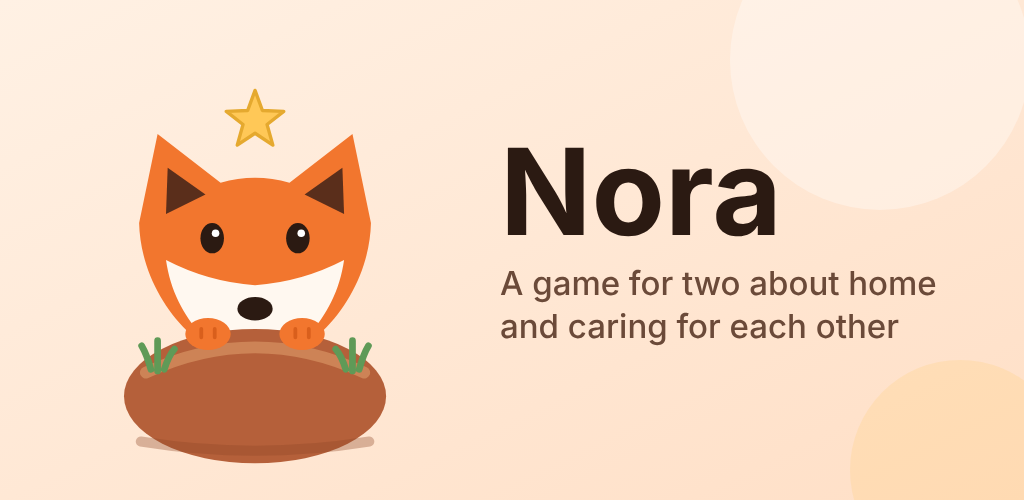
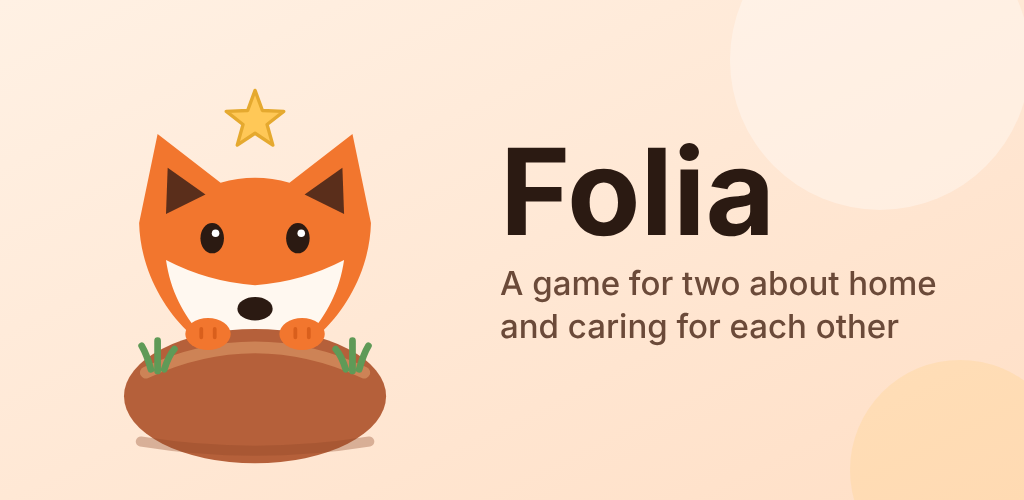
Rename the app to Folia (identifier com.andrey6570.nora stays)
Claude-Session: https://claude.ai/code/session_0174n2Gw8vqag9KVG39bDG5i

Changed region(s): [[0.5, 0.27, 0.7812, 0.48]]

diff --git a/src/help.js b/src/help.js
@@ -3,7 +3,7 @@ export const HELP = {
   ru: {
     guide: [
       ["1. Создайте пару", "Войдите через Google, укажите имя и нажмите «Создать пару». На экране появится код из шести символов."],
-      ["2. Пригласите партнёра", "Нажмите «Отправить» и перешлите код в мессенджере. Партнёр устанавливает Нору, входит через свой Google, выбирает «У меня есть код» и вводит его."],
+      ["2. Пригласите партнёра", "Нажмите «Отправить» и перешлите код в мессенджере. Партнёр устанавливает Folia, входит через свой Google, выбирает «У меня есть код» и вводит его."],
       ["3. Добавьте дела", "Кнопка ＋ создаёт своё дело: название, время, сложность и повтор. «Готовые наборы» — это списки популярных дел: отметьте подходящие и нажмите «Добавить»."],
       ["4. Отмечайте этапы", "У простого дела один этап — «Сделать». У дел, которые сначала нужно заметить и организовать (запись к врачу, покупки, счета), есть ещё «Заметить» и «Спланировать». Каждый этап за день или неделю отмечает только один из вас."],
       ["5. Делайте вместе", "Если сделали дело вдвоём, нажмите «Вдвоём»: звёзды удваиваются и все идут в общую копилку."],
@@ -20,7 +20,7 @@ export const HELP = {
       ["Как изменить или удалить дело?", "Нажмите ⋯ у дела. Там можно изменить его или удалить."],
       ["Что значит «1 звезда = N минут»?", "Это цена звезды в «Настройках → Экономика звёзд». Меняет цену будущих отметок, заработанное не пересчитывается."],
       ["Партнёр не может присоединиться", "Проверьте код: он из шести символов, латиница и цифры. В паре может быть только двое. Если код утерян, его видно во вкладке «Дела», пока партнёр не присоединился."],
-      ["Не приходят уведомления", "Откройте «Настройки → Уведомления» в приложении: там написано, что не так. Нажмите «Включить уведомления» и разрешите их в окне телефона. Если разрешение отклонено, включите его в настройках телефона (Приложения → Нора → Уведомления) и вернитесь в приложение. Кнопка «Отправить тестовое уведомление» проверяет всю цепочку, а строка «Последняя отправка сервера» показывает, что ответила Google. Если тест приходит, а остальное нет, отключите для «Нора» экономию заряда. Уведомления работают только в приложении для Android и отключаются, когда вы выходите из аккаунта или пары."],
+      ["Не приходят уведомления", "Откройте «Настройки → Уведомления» в приложении: там написано, что не так. Нажмите «Включить уведомления» и разрешите их в окне телефона. Если разрешение отклонено, включите его в настройках телефона (Приложения → Folia → Уведомления) и вернитесь в приложение. Кнопка «Отправить тестовое уведомление» проверяет всю цепочку, а строка «Последняя отправка сервера» показывает, что ответила Google. Если тест приходит, а остальное нет, отключите для «Folia» экономию заряда. Уведомления работают только в приложении для Android и отключаются, когда вы выходите из аккаунта или пары."],
       ["Почему нельзя потратить копилку одному?", "Копилка общая, поэтому траты из неё делаются вдвоём: один предлагает, второй соглашается. Личные награды вы покупаете сами из своих звёзд."],
       ["Видит ли партнёр мои ответы в «Карте желаний»?", "Нет. Ваши ответы приватны. Партнёр видит только пункты, где вы оба сказали «да» или были открыты. Ваше «нет» не видит никто, и ответ нельзя изменить, чтобы его нельзя было подбирать."],
       ["Питомец расстроится, если мы пропустим день?", "Нет. Питомец не болеет, не голодает и не обижается. Он просто дремлет и ждёт. Страдает только «огонёк» пары: серия обнуляется, но заморозка (даётся за каждые 7 дней подряд) спасает один пропущенный день."],
@@ -32,7 +32,7 @@ export const HELP = {
   en: {
     guide: [
       ["1. Create a pair", "Sign in with Google, enter your name and tap “Create a pair”. A six-character code appears on the screen."],
-      ["2. Invite your partner", "Tap “Send” and share the code in a messenger. Your partner installs Nora, signs in with their own Google account, chooses “I have a code” and enters it."],
+      ["2. Invite your partner", "Tap “Send” and share the code in a messenger. Your partner installs Folia, signs in with their own Google account, chooses “I have a code” and enters it."],
       ["3. Add chores", "The ＋ button creates your own chore: title, time, difficulty and repeat. “Ready-made sets” are lists of popular chores: tick the ones that fit and tap “Add”."],
       ["4. Mark the steps", "A simple chore has one step, “Do”. Chores someone has to spot and organise first (a doctor's appointment, shopping, bills) also have “Notice” and “Plan”. Each step in a day or week is marked by only one of you."],
       ["5. Do it together", "If you did a chore together, tap “Together”: the stars are doubled and all go into the shared pot."],
@@ -49,7 +49,7 @@ export const HELP = {
       ["How do I edit or delete a chore?", "Tap ⋯ on the chore. You can edit or delete it there."],
       ["What does “1 star = N minutes” mean?", "It is the price of a star in Settings → Star economy. It changes the price of future marks; stars already earned stay as they are."],
       ["My partner cannot join", "Check the code: six characters, Latin letters and digits. A pair can have only two people. If the code is lost, it is shown in the Chores tab until your partner joins."],
-      ["I do not get notifications", "Open Settings → Notifications in the app: it says what is wrong. Tap “Turn on notifications” and allow them in the phone's window. If the permission was declined, turn it on in the phone settings (Apps → Nora → Notifications) and return to the app. The “Send a test notification” button checks the whole chain, and the “The server's last send” line shows what Google answered. If the test arrives but nothing else does, turn off battery saving for Nora. Notifications work only in the Android app and are switched off when you sign out or leave the pair."],
+      ["I do not get notifications", "Open Settings → Notifications in the app: it says what is wrong. Tap “Turn on notifications” and allow them in the phone's window. If the permission was declined, turn it on in the phone settings (Apps → Folia → Notifications) and return to the app. The “Send a test notification” button checks the whole chain, and the “The server's last send” line shows what Google answered. If the test arrives but nothing else does, turn off battery saving for Folia. Notifications work only in the Android app and are switched off when you sign out or leave the pair."],
       ["Why can't I spend the pot alone?", "The pot is shared, so spending it is a joint decision: one suggests, the other agrees. You buy personal rewards yourself from your own stars."],
       ["Does my partner see my answers in the “Wish map”?", "No. Your answers are private. Your partner sees only the items where you both said “yes” or were open to it. No one sees your “no”, and an answer cannot be changed, so it cannot be probed."],
       ["Will the pet be upset if we skip a day?", "No. The pet does not get ill, hungry or offended. It simply naps and waits. Only the pair's “flame” suffers: the streak resets, but a freeze (given for every 7 days in a row) saves one missed day."],
@@ -61,7 +61,7 @@ export const HELP = {
   el: {
     guide: [
       ["1. Δημιουργήστε ζευγάρι", "Συνδεθείτε με Google, γράψτε το όνομά σας και πατήστε «Δημιουργία ζευγαριού». Στην οθόνη εμφανίζεται ένας κωδικός έξι χαρακτήρων."],
-      ["2. Προσκαλέστε το ταίρι σας", "Πατήστε «Αποστολή» και στείλτε τον κωδικό σε μια εφαρμογή μηνυμάτων. Το ταίρι σας εγκαθιστά τη Νόρα, συνδέεται με τον δικό του λογαριασμό Google, επιλέγει «Έχω κωδικό» και τον εισάγει."],
+      ["2. Προσκαλέστε το ταίρι σας", "Πατήστε «Αποστολή» και στείλτε τον κωδικό σε μια εφαρμογή μηνυμάτων. Το ταίρι σας εγκαθιστά τη Folia, συνδέεται με τον δικό του λογαριασμό Google, επιλέγει «Έχω κωδικό» και τον εισάγει."],
       ["3. Προσθέστε δουλειές", "Το κουμπί ＋ δημιουργεί δική σας δουλειά: τίτλο, χρόνο, δυσκολία και επανάληψη. Τα «Έτοιμα σετ» είναι λίστες με δημοφιλείς δουλειές: επιλέξτε όσες ταιριάζουν και πατήστε «Προσθήκη»."],
       ["4. Σημειώστε τα στάδια", "Μια απλή δουλειά έχει ένα στάδιο, την «Εκτέλεση». Οι δουλειές που πρέπει πρώτα να εντοπιστούν και να οργανωθούν (ραντεβού με γιατρό, ψώνια, λογαριασμοί) έχουν επίσης «Εντοπισμό» και «Οργάνωση». Κάθε στάδιο ανά ημέρα ή εβδομάδα το σημειώνει μόνο ένα από τα δύο μέλη."],
       ["5. Κάντε το μαζί", "Αν κάνατε μια δουλειά μαζί, πατήστε «Μαζί»: τα αστέρια διπλασιάζονται και πηγαίνουν όλα στον κοινό κουμπαρά."],
@@ -78,7 +78,7 @@ export const HELP = {
       ["Πώς αλλάζω ή διαγράφω μια δουλειά;", "Πατήστε ⋯ στη δουλειά. Εκεί μπορείτε να την επεξεργαστείτε ή να τη διαγράψετε."],
       ["Τι σημαίνει «1 αστέρι = N λεπτά»;", "Είναι η αξία ενός αστεριού στις Ρυθμίσεις → Οικονομία αστεριών. Αλλάζει την αξία των επόμενων σημειώσεων· όσα έχουν ήδη κερδηθεί δεν αλλάζουν."],
       ["Το ταίρι μου δεν μπορεί να μπει", "Ελέγξτε τον κωδικό: έξι χαρακτήρες, λατινικά γράμματα και ψηφία. Ένα ζευγάρι έχει μόνο δύο μέλη. Αν χαθεί ο κωδικός, εμφανίζεται στην καρτέλα «Δουλειές» μέχρι να μπει το ταίρι σας."],
-      ["Δεν λαμβάνω ειδοποιήσεις", "Ανοίξτε Ρυθμίσεις → Ειδοποιήσεις στην εφαρμογή: γράφει τι δεν πάει καλά. Πατήστε «Ενεργοποίηση ειδοποιήσεων» και επιτρέψτε τες στο παράθυρο του τηλεφώνου. Αν η άδεια απορρίφθηκε, ενεργοποιήστε την στις ρυθμίσεις του τηλεφώνου (Εφαρμογές → Νόρα → Ειδοποιήσεις) και επιστρέψτε στην εφαρμογή. Το κουμπί «Αποστολή δοκιμαστικής ειδοποίησης» ελέγχει όλη την αλυσίδα και η γραμμή «Τελευταία αποστολή του διακομιστή» δείχνει τι απάντησε η Google. Αν η δοκιμή έρχεται αλλά τίποτα άλλο, απενεργοποιήστε την εξοικονόμηση μπαταρίας για τη Νόρα. Οι ειδοποιήσεις λειτουργούν μόνο στην εφαρμογή Android και απενεργοποιούνται όταν αποσυνδεθείτε ή αποχωρήσετε από το ζευγάρι."],
+      ["Δεν λαμβάνω ειδοποιήσεις", "Ανοίξτε Ρυθμίσεις → Ειδοποιήσεις στην εφαρμογή: γράφει τι δεν πάει καλά. Πατήστε «Ενεργοποίηση ειδοποιήσεων» και επιτρέψτε τες στο παράθυρο του τηλεφώνου. Αν η άδεια απορρίφθηκε, ενεργοποιήστε την στις ρυθμίσεις του τηλεφώνου (Εφαρμογές → Folia → Ειδοποιήσεις) και επιστρέψτε στην εφαρμογή. Το κουμπί «Αποστολή δοκιμαστικής ειδοποίησης» ελέγχει όλη την αλυσίδα και η γραμμή «Τελευταία αποστολή του διακομιστή» δείχνει τι απάντησε η Google. Αν η δοκιμή έρχεται αλλά τίποτα άλλο, απενεργοποιήστε την εξοικονόμηση μπαταρίας για τη Folia. Οι ειδοποιήσεις λειτουργούν μόνο στην εφαρμογή Android και απενεργοποιούνται όταν αποσυνδεθείτε ή αποχωρήσετε από το ζευγάρι."],
       ["Γιατί δεν μπορώ να ξοδέψω μόνος τον κουμπαρά;", "Ο κουμπαράς είναι κοινός, οπότε η δαπάνη του είναι κοινή απόφαση: το ένα μέλος προτείνει, το άλλο συμφωνεί. Τις προσωπικές ανταμοιβές τις αγοράζετε μόνοι σας από τα δικά σας αστέρια."],
       ["Βλέπει το ταίρι μου τις απαντήσεις μου στον «Χάρτη επιθυμιών»;", "Όχι. Οι απαντήσεις σας είναι ιδιωτικές. Το ταίρι σας βλέπει μόνο τα σημεία όπου και οι δύο είπατε «ναι» ή ήσασταν ανοιχτοί. Το «όχι» σας δεν το βλέπει κανείς και η απάντηση δεν αλλάζει, ώστε να μη μπορεί να δοκιμαστεί."],
       ["Θα στεναχωρηθεί το κατοικίδιο αν χάσουμε μια μέρα;", "Όχι. Το κατοικίδιο δεν αρρωσταίνει, δεν πεινάει και δεν παραπονιέται. Απλώς κοιμάται και περιμένει. Μόνο η «φλόγα» του ζευγαριού υποφέρει: το σερί μηδενίζεται, αλλά ένα πάγωμα (δίνεται για κάθε 7 μέρες στη σειρά) σώζει μία χαμένη μέρα."],

diff --git a/src/legal.js b/src/legal.js
@@ -10,7 +10,7 @@ const DPA = `<a href="https://www.dataprotection.gov.cy" target="_blank" rel="no
 export const LEGAL = {
   privacy: {
     ru: { title: "Политика конфиденциальности", updated: "Действует с 28 октября 2026 г.", sections: [
-      ["Кто отвечает за данные", `Оператор данных приложения «Нора» — ${OWNER.ru}, ${ADDRESS.ru}. По любым вопросам о данных пишите на ${EMAIL}.`],
+      ["Кто отвечает за данные", `Оператор данных приложения «Folia» — ${OWNER.ru}, ${ADDRESS.ru}. По любым вопросам о данных пишите на ${EMAIL}.`],
       ["Какие данные мы обрабатываем", `<ul>
         <li><b>Учётная запись Google:</b> идентификатор, адрес почты и имя из профиля Google. Их хранит сервис входа Firebase Authentication.</li>
         <li><b>Имя в приложении,</b> которое вы указали сами.</li>
@@ -41,12 +41,12 @@ export const LEGAL = {
         <li>Технические журналы и резервные копии Google удаляются в сроки, установленные Google.</li>
       </ul>`],
       ["Ваши права", `По GDPR вы можете запросить доступ к своим данным и их копию, исправление, удаление, ограничение обработки, перенос данных, а также возразить против обработки и отозвать согласие. Удалить учётную запись можно в самом приложении; остальные запросы присылайте на ${EMAIL}. Мы отвечаем в течение одного месяца. Вы также вправе подать жалобу в надзорный орган: на Кипре это Уполномоченный по защите персональных данных (${DPA}), или в орган вашей страны в ЕС.`],
-      ["Возраст", "«Нора» предназначена только для людей старше 18 лет. Мы сознательно не обрабатываем данные несовершеннолетних."],
+      ["Возраст", "«Folia» предназначена только для людей старше 18 лет. Мы сознательно не обрабатываем данные несовершеннолетних."],
       ["Безопасность", "Доступ к данным пары есть только у двух её участников: это проверяют правила базы данных на сервере. Звёзды начисляет только сервер. Соединение с сервером шифруется."],
       ["Изменения политики", "Если политика изменится по существу, мы покажем это в приложении и при необходимости попросим согласие заново. Действующая версия всегда доступна в «Настройках»."]
     ] },
     en: { title: "Privacy policy", updated: "Effective from 28 October 2026", sections: [
-      ["Who is responsible for your data", `The data controller for the Nora app is ${OWNER.en}, ${ADDRESS.en}. For any question about your data, write to ${EMAIL}.`],
+      ["Who is responsible for your data", `The data controller for the Folia app is ${OWNER.en}, ${ADDRESS.en}. For any question about your data, write to ${EMAIL}.`],
       ["What data we process", `<ul>
         <li><b>Google account:</b> identifier, email address and name from your Google profile, stored by the Firebase Authentication sign-in service.</li>
         <li><b>Your name in the app,</b> which you enter yourself.</li>
@@ -77,12 +77,12 @@ export const LEGAL = {
         <li>Technical logs and Google's backups are deleted within the periods set by Google.</li>
       </ul>`],
       ["Your rights", `Under the GDPR you may request access to your data and a copy of it, rectification, erasure, restriction of processing and data portability, object to processing and withdraw consent. You can delete your account in the app itself; send other requests to ${EMAIL}. We reply within one month. You also have the right to lodge a complaint with a supervisory authority: in Cyprus, the Commissioner for Personal Data Protection (${DPA}), or the authority of your EU country.`],
-      ["Age", "Nora is intended only for people aged 18 and over. We do not knowingly process data of minors."],
+      ["Age", "Folia is intended only for people aged 18 and over. We do not knowingly process data of minors."],
       ["Security", "Only the two members of a pair can access its data; database rules on the server enforce this. Only the server awards stars. The connection to the server is encrypted."],
       ["Changes to this policy", "If this policy changes materially, we will show it in the app and ask for consent again where required. The current version is always available in Settings."]
     ] },
     el: { title: "Πολιτική απορρήτου", updated: "Ισχύει από 28 Οκτωβρίου 2026", sections: [
-      ["Υπεύθυνος επεξεργασίας", `Υπεύθυνος επεξεργασίας για την εφαρμογή Νόρα είναι ${OWNER.el}, ${ADDRESS.el}. Για οποιαδήποτε ερώτηση σχετικά με τα δεδομένα σας, γράψτε στο ${EMAIL}.`],
+      ["Υπεύθυνος επεξεργασίας", `Υπεύθυνος επεξεργασίας για την εφαρμογή Folia είναι ${OWNER.el}, ${ADDRESS.el}. Για οποιαδήποτε ερώτηση σχετικά με τα δεδομένα σας, γράψτε στο ${EMAIL}.`],
       ["Ποια δεδομένα επεξεργαζόμαστε", `<ul>
         <li><b>Λογαριασμός Google:</b> αναγνωριστικό, διεύθυνση email και όνομα από το προφίλ Google, που αποθηκεύονται από την υπηρεσία σύνδεσης Firebase Authentication.</li>
         <li><b>Το όνομά σας στην εφαρμογή,</b> το οποίο εισάγετε εσείς.</li>
@@ -113,14 +113,14 @@ export const LEGAL = {
         <li>Τα τεχνικά αρχεία καταγραφής και τα αντίγραφα ασφαλείας της Google διαγράφονται εντός των προθεσμιών που ορίζει η Google.</li>
       </ul>`],
       ["Τα δικαιώματά σας", `Σύμφωνα με τον ΓΚΠΔ μπορείτε να ζητήσετε πρόσβαση στα δεδομένα σας και αντίγραφό τους, διόρθωση, διαγραφή, περιορισμό της επεξεργασίας και φορητότητα, να αντιταχθείτε στην επεξεργασία και να ανακαλέσετε τη συναίνεσή σας. Μπορείτε να διαγράψετε τον λογαριασμό σας μέσα από την εφαρμογή· τα υπόλοιπα αιτήματα στείλτε στο ${EMAIL}. Απαντούμε εντός ενός μηνός. Έχετε επίσης δικαίωμα να υποβάλετε καταγγελία σε εποπτική αρχή: στην Κύπρο, στον Επίτροπο Προστασίας Δεδομένων Προσωπικού Χαρακτήρα (${DPA}), ή στην αρχή της χώρας σας στην ΕΕ.`],
-      ["Ηλικία", "Η Νόρα προορίζεται μόνο για άτομα άνω των 18 ετών. Δεν επεξεργαζόμαστε εν γνώσει μας δεδομένα ανηλίκων."],
+      ["Ηλικία", "Η Folia προορίζεται μόνο για άτομα άνω των 18 ετών. Δεν επεξεργαζόμαστε εν γνώσει μας δεδομένα ανηλίκων."],
       ["Ασφάλεια", "Πρόσβαση στα δεδομένα ενός ζευγαριού έχουν μόνο τα δύο μέλη του· αυτό το επιβάλλουν οι κανόνες της βάσης δεδομένων στον διακομιστή. Τα αστέρια απονέμονται μόνο από τον διακομιστή. Η σύνδεση με τον διακομιστή είναι κρυπτογραφημένη."],
       ["Αλλαγές στην πολιτική", "Αν η πολιτική αλλάξει ουσιωδώς, θα το εμφανίσουμε στην εφαρμογή και, όπου απαιτείται, θα ζητήσουμε ξανά συναίνεση. Η ισχύουσα έκδοση είναι πάντα διαθέσιμη στις Ρυθμίσεις."]
     ] }
   },
   terms: {
     ru: { title: "Условия использования", updated: "Действуют с 28 октября 2026 г.", sections: [
-      ["О сервисе", `«Нора» — бесплатное приложение для пар, в котором двое отмечают домашние дела и получают виртуальные звёзды. Сервис предоставляет ${OWNER.ru}, ${ADDRESS.ru} (${EMAIL}).`],
+      ["О сервисе", `«Folia» — бесплатное приложение для пар, в котором двое отмечают домашние дела и получают виртуальные звёзды. Сервис предоставляет ${OWNER.ru}, ${ADDRESS.ru} (${EMAIL}).`],
       ["Кто может пользоваться", "Только люди старше 18 лет. Входя в приложение, вы подтверждаете свой возраст и принимаете эти условия и политику конфиденциальности."],
       ["Учётная запись и пара", "Вы входите через свою учётную запись Google и отвечаете за её безопасность. В паре может быть два человека. Код приглашения передавайте только тому, с кем хотите играть: по нему можно присоединиться к вашей паре, пока в ней есть свободное место."],
       ["Ваши материалы", "Вы отвечаете за то, что вводите в приложение: имя и названия дел. Не вводите чужие персональные данные, оскорбления и незаконное содержимое. Ваш партнёр видит то, что вы вводите."],
@@ -132,7 +132,7 @@ export const LEGAL = {
       ["Изменения", "Если условия изменятся по существу, мы сообщим об этом в приложении. Продолжая пользоваться приложением после изменения, вы принимаете новые условия."]
     ] },
     en: { title: "Terms of use", updated: "Effective from 28 October 2026", sections: [
-      ["About the service", `Nora is a free app for couples in which two people mark household chores and earn virtual stars. The service is provided by ${OWNER.en}, ${ADDRESS.en} (${EMAIL}).`],
+      ["About the service", `Folia is a free app for couples in which two people mark household chores and earn virtual stars. The service is provided by ${OWNER.en}, ${ADDRESS.en} (${EMAIL}).`],
       ["Who may use it", "Only people aged 18 and over. By signing in you confirm your age and accept these terms and the privacy policy."],
       ["Account and pair", "You sign in with your Google account and are responsible for keeping it secure. A pair can have two people. Share the invite code only with the person you want to play with: anyone with it can join your pair while there is a free place."],
       ["Your content", "You are responsible for what you enter in the app: your name and chore titles. Do not enter other people's personal data, insults or unlawful content. Your partner sees what you enter."],
@@ -144,7 +144,7 @@ export const LEGAL = {
       ["Changes", "If these terms change materially, we will tell you in the app. By continuing to use the app after a change, you accept the new terms."]
     ] },
     el: { title: "Όροι χρήσης", updated: "Ισχύουν από 28 Οκτωβρίου 2026", sections: [
-      ["Σχετικά με την υπηρεσία", `Η Νόρα είναι μια δωρεάν εφαρμογή για ζευγάρια, στην οποία δύο άτομα σημειώνουν δουλειές του σπιτιού και κερδίζουν εικονικά αστέρια. Την υπηρεσία παρέχει ${OWNER.el}, ${ADDRESS.el} (${EMAIL}).`],
+      ["Σχετικά με την υπηρεσία", `Η Folia είναι μια δωρεάν εφαρμογή για ζευγάρια, στην οποία δύο άτομα σημειώνουν δουλειές του σπιτιού και κερδίζουν εικονικά αστέρια. Την υπηρεσία παρέχει ${OWNER.el}, ${ADDRESS.el} (${EMAIL}).`],
       ["Ποιος μπορεί να τη χρησιμοποιεί", "Μόνο άτομα άνω των 18 ετών. Με τη σύνδεση επιβεβαιώνετε την ηλικία σας και αποδέχεστε αυτούς τους όρους και την πολιτική απορρήτου."],
       ["Λογαριασμός και ζευγάρι", "Συνδέεστε με τον λογαριασμό σας Google και είστε υπεύθυνοι για την ασφάλειά του. Ένα ζευγάρι μπορεί να έχει δύο άτομα. Δώστε τον κωδικό πρόσκλησης μόνο στο άτομο με το οποίο θέλετε να παίξετε: όποιος τον έχει μπορεί να μπει στο ζευγάρι σας όσο υπάρχει ελεύθερη θέση."],
       ["Το περιεχόμενό σας", "Είστε υπεύθυνοι για ό,τι εισάγετε στην εφαρμογή: το όνομά σας και τους τίτλους των δουλειών. Μην εισάγετε προσωπικά δεδομένα άλλων, προσβολές ή παράνομο περιεχόμενο. Το ταίρι σας βλέπει ό,τι εισάγετε."],

diff --git a/src/views.js b/src/views.js
@@ -22,7 +22,7 @@ const seg = (name, items, cur) => `<div class="seg" role="radiogroup">${items.ma
 const langChips = () => seg("lang", LANGS.map(([v, l]) => [v, l]), getLang());
 
 export function setup() {
-  return `<main class="center narrow"><div class="logo">${markSvg(104)}</div><h1>${t("Нора")}</h1>
+  return `<main class="center narrow"><div class="logo">${markSvg(104)}</div><h1>Folia</h1>
     <p class="lead">${t("Сервер ещё не подключён, поэтому войти пока нельзя. Демо показывает все экраны на примерных данных, ничего не сохраняется.")}</p>
     <button class="btn primary big" data-act="demo">${t("Посмотреть демо")}</button>
     <div class="foot">${langChips()}</div></main>`;
@@ -33,7 +33,7 @@ export function loading() { return `<main class="center"><div class="logo pulse"
 export function signIn(ui) {
   return `<main class="center">
     <div class="logo">${markSvg(104)}</div>
-    <h1>${t("Нора")}</h1>
+    <h1>Folia</h1>
     <p class="lead">${t("Дом — общее дело. Игра для двоих о быте и заботе друг о друге.")}</p>
     <button class="btn primary big" data-act="signin" ${ui.busy ? "disabled" : ""}>${t("Войти через Google")}</button>
     ${isIOS() ? `<button class="btn big apple" data-act="signin-apple" ${ui.busy ? "disabled" : ""}> ${t("Войти через Apple")}</button>` : ""}
@@ -66,7 +66,7 @@ export function welcome(ui) {
       <button class="btn primary big" data-act="create" ${ui.busy ? "disabled" : ""}>${t("Создать пару")}</button>
       <button class="btn ghost" data-act="welcome" data-v="choose">${t("Назад")}</button>`;
   } else {
-    body = `<p class="lead">${t("Нора — для двоих. Создайте пару и пригласите партнёра или введите код, который партнёр вам прислал.")}</p>
+    body = `<p class="lead">${t("Folia — для двоих. Создайте пару и пригласите партнёра или введите код, который партнёр вам прислал.")}</p>
       <button class="btn primary big" data-act="welcome" data-v="create">${t("Создать пару")}</button>
       <button class="btn big" data-act="welcome" data-v="join">${t("У меня есть код")}</button>
       <button class="btn ghost" data-act="signout">${t("Выйти из аккаунта")}</button>`;
@@ -77,7 +77,7 @@ export function welcome(ui) {
 function invite(pair) {
   return `<section class="card invite">
     <h2>${t("Пригласите партнёра")}</h2>
-    <p class="muted">${t("Партнёр устанавливает Нору, входит и вводит этот код:")}</p>
+    <p class="muted">${t("Партнёр устанавливает Folia, входит и вводит этот код:")}</p>
     <div class="code">${esc(pair.inviteCode || "")}</div>
     <div class="row"><button class="btn" data-act="copy-code">${t("Скопировать")}</button>
     <button class="btn primary" data-act="share-code">${t("Отправить")}</button></div>
@@ -269,14 +269,14 @@ function pushCard(S) {
   else if (pushOk(P)) line = "✅ " + t("Уведомления включены на этом телефоне");
   else if (st === "ready") { line = t("Токен получен, но не сохранён: {x}", { x: esc(P.saveError || "?") }); btn = "push-enable"; }
   else if (["checking", "asking", "registering"].includes(st)) line = "⏳ " + t("Идёт настройка…");
-  else if (st === "denied") { line = "❌ " + t("Разрешение отклонено. Откройте «Настройки» телефона → «Приложения» → «Нора» → «Уведомления», включите их и вернитесь сюда."); btn = "push-enable"; }
+  else if (st === "denied") { line = "❌ " + t("Разрешение отклонено. Откройте «Настройки» телефона → «Приложения» → «Folia» → «Уведомления», включите их и вернитесь сюда."); btn = "push-enable"; }
   else if (st === "error") { line = "⚠ " + t("Не получилось включить: {x}", { x: esc(P.error || "?") }); btn = "push-enable"; }
   else { line = t("Разрешение ещё не запрошено. Нажмите кнопку, и телефон спросит."); btn = "push-enable"; }
   const result = last ? `<p class="muted small">${t("Последняя отправка сервера")}: ${last.ok ? "✅ " + t("доставлено в Google") : "❌ " + esc(last.code || "?")}</p>` : "";
   return `<section class="card"><h2>${t("Уведомления")}</h2><p class="${pushOk(P) ? "" : "muted"}">${line}</p>
     ${btn ? `<button class="btn primary" data-act="${btn}">${st === "denied" || st === "error" || st === "ready" ? t("Проверить снова") : t("Включить уведомления")}</button>` : ""}
     ${pushOk(P) ? `<button class="btn" data-act="push-test">${t("Отправить тестовое уведомление")}</button>
-      <p class="muted small">${t("Придёт на этот телефон. Если не пришло, отключите для «Нора» экономию заряда: Настройки → Приложения → Нора → Батарея.")}</p>` : ""}
+      <p class="muted small">${t("Придёт на этот телефон. Если не пришло, отключите для «Folia» экономию заряда: Настройки → Приложения → Folia → Батарея.")}</p>` : ""}
     ${result}</section>`;
 }
 function pushBanner(S) {
@@ -348,7 +348,7 @@ function settingsTab(S, ui) {
     <section class="card"><h2>${t("Аккаунт и данные")}</h2>
       <p class="muted">${t("Удаляет ваш профиль, имя в паре и запись входа. Партнёр останется в паре.")}</p>
       <button class="btn danger" data-act="delete-account">${t("Удалить аккаунт")}</button></section>
-    <p class="muted center-text small">${t("Нора")} 0.1</p>`;
+    <p class="muted center-text small">Folia 0.1</p>`;
 }
 
 const TABS = [["tasks", "📋", "Дела"], ["us", "🦊", "Мы"], ["warm", "💌", "Тепло"], ["games", "🎲", "Игры"], ["settings", "⚙", "Настройки"]];
@@ -359,7 +359,7 @@ export function main(S, ui) {
   if (ui.game) return gameScreen(S, ui) + (ui.sheet ? sheet(S, ui) : "");
   const body = ui.tab === "us" ? usTab(S, ui) : ui.tab === "warm" ? warmthTab(S) : ui.tab === "games" ? ((S.pair.members || []).length < 2 ? invite(S.pair) : "") + gamesTab(S) : ui.tab === "settings" ? settingsTab(S, ui) : tasksTab(S);
   const unseen = ui.tab === "warm" ? 0 : unseenSignals(S.signals || [], S.user.uid, ui.seenAt || 0);
-  return `<header class="top"><span class="brand">${markSvg(30)}<b>${t("Нора")}</b></span><span class="nav-title">${t(TAB_TITLE(ui.tab))}</span>${S.demo ? `<span class="badge">${t("Демо")}</span>` : ""}</header>
+  return `<header class="top"><span class="brand">${markSvg(30)}<b>Folia</b></span><span class="nav-title">${t(TAB_TITLE(ui.tab))}</span>${S.demo ? `<span class="badge">${t("Демо")}</span>` : ""}</header>
     <main class="page"><h1 class="large-title">${t(TAB_TITLE(ui.tab))}</h1>${body}${err(ui)}</main>
     <nav class="tabs">${TABS.map(([id, icon, label]) =>
       `<button class="${ui.tab === id ? "on" : ""}" data-act="tab" data-v="${id}" aria-current="${ui.tab === id}"><span>${icon}${id === "warm" && unseen ? `<i class="dot" aria-label="${unseen}">${unseen}</i>` : ""}</span>${t(label)}</button>`).join("")}</nav>

diff --git a/src/i18n-el.js b/src/i18n-el.js
@@ -1,14 +1,13 @@
 // Greek. Keys are the Russian source strings (see tools/ru-strings.mjs). Written gender-neutral;
 // a native speaker should read it before a public release.
 export const EL = {
-  "Нора": "Νόρα",
   "Сервер ещё не подключён, поэтому войти пока нельзя. Демо показывает все экраны на примерных данных, ничего не сохраняется.": "Ο διακομιστής δεν έχει συνδεθεί ακόμη, οπότε η σύνδεση δεν είναι δυνατή. Η επίδειξη δείχνει όλες τις οθόνες με δείγματα δεδομένων· τίποτα δεν αποθηκεύεται.",
   "Посмотреть демо": "Δοκιμή επίδειξης",
   "Демо": "Επίδειξη",
   "Дом — общее дело. Игра для двоих о быте и заботе друг о друге.": "Το σπίτι είναι κοινή υπόθεση. Ένα παιχνίδι για δύο, για τις δουλειές του σπιτιού και τη φροντίδα του ενός για τον άλλο.",
   "Войти через Google": "Σύνδεση με Google",
   "Добро пожаловать": "Καλώς ήρθατε",
-  "Нора — для двоих. Создайте пару и пригласите партнёра или введите код, который партнёр вам прислал.": "Η Νόρα είναι για δύο. Δημιουργήστε ζευγάρι και προσκαλέστε το ταίρι σας ή εισαγάγετε τον κωδικό που σας έστειλε.",
+  "Folia — для двоих. Создайте пару и пригласите партнёра или введите код, который партнёр вам прислал.": "Η Folia είναι για δύο. Δημιουργήστε ζευγάρι και προσκαλέστε το ταίρι σας ή εισαγάγετε τον κωδικό που σας έστειλε.",
   "Создать пару": "Δημιουργία ζευγαριού",
   "У меня есть код": "Έχω κωδικό",
   "Выйти из аккаунта": "Αποσύνδεση",
@@ -18,7 +17,7 @@ export const EL = {
   "Присоединиться": "Συμμετοχή",
   "Назад": "Πίσω",
   "Пригласите партнёра": "Προσκαλέστε το ταίρι σας",
-  "Партнёр устанавливает Нору, входит и вводит этот код:": "Το ταίρι σας εγκαθιστά τη Νόρα, συνδέεται και εισάγει αυτόν τον κωδικό:",
+  "Партнёр устанавливает Folia, входит и вводит этот код:": "Το ταίρι σας εγκαθιστά τη Folia, συνδέεται και εισάγει αυτόν τον κωδικό:",
   "Скопировать": "Αντιγραφή",
   "Отправить": "Αποστολή",
   "Партнёр": "Ταίρι",
@@ -77,7 +76,7 @@ export const EL = {
   "Не получилось": "Κάτι πήγε στραβά",
   "Вы в паре!": "Είστε ζευγάρι!",
   "Код скопирован": "Ο κωδικός αντιγράφηκε",
-  "Давай играть в Нору вдвоём! Установи приложение и введи код: {code}": "Ας παίξουμε μαζί τη Νόρα! Εγκατάστησε την εφαρμογή και βάλε τον κωδικό: {code}",
+  "Давай играть в Folia вдвоём! Установи приложение и введи код: {code}": "Ας παίξουμε μαζί τη Folia! Εγκατάστησε την εφαρμογή και βάλε τον κωδικό: {code}",
   "Текст приглашения скопирован": "Η πρόσκληση αντιγράφηκε",
   "Новый код готов": "Ο νέος κωδικός είναι έτοιμος",
   "Сохранено": "Αποθηκεύτηκε",
@@ -320,10 +319,10 @@ export const EL = {
   "Не получилось включить: {x}": "Δεν ήταν δυνατή η ενεργοποίηση: {x}",
   "Отправить тестовое уведомление": "Αποστολή δοκιμαστικής ειδοποίησης",
   "Последняя отправка сервера": "Τελευταία αποστολή του διακομιστή",
-  "Придёт на этот телефон. Если не пришло, отключите для «Нора» экономию заряда: Настройки → Приложения → Нора → Батарея.": "Θα έρθει σε αυτό το τηλέφωνο. Αν δεν έρθει, απενεργοποιήστε την εξοικονόμηση μπαταρίας για τη Νόρα: Ρυθμίσεις → Εφαρμογές → Νόρα → Μπαταρία.",
+  "Придёт на этот телефон. Если не пришло, отключите для «Folia» экономию заряда: Настройки → Приложения → Folia → Батарея.": "Θα έρθει σε αυτό το τηλέφωνο. Αν δεν έρθει, απενεργοποιήστε την εξοικονόμηση μπαταρίας για τη Folia: Ρυθμίσεις → Εφαρμογές → Folia → Μπαταρία.",
   "Проверить снова": "Έλεγχος ξανά",
   "Разрешение ещё не запрошено. Нажмите кнопку, и телефон спросит.": "Η άδεια δεν έχει ζητηθεί ακόμη. Πατήστε το κουμπί και το τηλέφωνο θα ρωτήσει.",
-  "Разрешение отклонено. Откройте «Настройки» телефона → «Приложения» → «Нора» → «Уведомления», включите их и вернитесь сюда.": "Η άδεια απορρίφθηκε. Ανοίξτε τις Ρυθμίσεις του τηλεφώνου → Εφαρμογές → Νόρα → Ειδοποιήσεις, ενεργοποιήστε τις και επιστρέψτε εδώ.",
+  "Разрешение отклонено. Откройте «Настройки» телефона → «Приложения» → «Folia» → «Уведомления», включите их и вернитесь сюда.": "Η άδεια απορρίφθηκε. Ανοίξτε τις Ρυθμίσεις του τηλεφώνου → Εφαρμογές → Folia → Ειδοποιήσεις, ενεργοποιήστε τις και επιστρέψτε εδώ.",
   "Тест отправлен. Подождите несколько секунд.": "Η δοκιμή στάλθηκε. Περιμένετε λίγα δευτερόλεπτα.",
   "Тогда тёплые слова и реакции партнёра будут приходить сразу, даже если приложение закрыто.": "Τότε τα τρυφερά λόγια και οι αντιδράσεις του ταιριού σας θα έρχονται αμέσως, ακόμη και με κλειστή εφαρμογή.",
   "Токен получен, но не сохранён: {x}": "Το διακριτικό ελήφθη αλλά δεν αποθηκεύτηκε: {x}",

diff --git a/src/i18n-en.js b/src/i18n-en.js
@@ -1,13 +1,12 @@
 // English. Keys are the Russian source strings (see tools/ru-strings.mjs).
 export const EN = {
-  "Нора": "Nora",
   "Сервер ещё не подключён, поэтому войти пока нельзя. Демо показывает все экраны на примерных данных, ничего не сохраняется.": "The server is not connected yet, so you cannot sign in. The demo shows every screen with sample data; nothing is saved.",
   "Посмотреть демо": "Try the demo",
   "Демо": "Demo",
   "Дом — общее дело. Игра для двоих о быте и заботе друг о друге.": "A home is a shared job. A game for two about chores and caring for each other.",
   "Войти через Google": "Sign in with Google",
   "Добро пожаловать": "Welcome",
-  "Нора — для двоих. Создайте пару и пригласите партнёра или введите код, который партнёр вам прислал.": "Nora is for two. Create a pair and invite your partner, or enter the code your partner sent you.",
+  "Folia — для двоих. Создайте пару и пригласите партнёра или введите код, который партнёр вам прислал.": "Folia is for two. Create a pair and invite your partner, or enter the code your partner sent you.",
   "Создать пару": "Create a pair",
   "У меня есть код": "I have a code",
   "Выйти из аккаунта": "Sign out",
@@ -17,7 +16,7 @@ export const EN = {
   "Присоединиться": "Join",
   "Назад": "Back",
   "Пригласите партнёра": "Invite your partner",
-  "Партнёр устанавливает Нору, входит и вводит этот код:": "Your partner installs Nora, signs in and enters this code:",
+  "Партнёр устанавливает Folia, входит и вводит этот код:": "Your partner installs Folia, signs in and enters this code:",
   "Скопировать": "Copy",
   "Отправить": "Send",
   "Партнёр": "Partner",
@@ -76,7 +75,7 @@ export const EN = {
   "Не получилось": "Something went wrong",
   "Вы в паре!": "You are a pair!",
   "Код скопирован": "Code copied",
-  "Давай играть в Нору вдвоём! Установи приложение и введи код: {code}": "Let's play Nora together! Install the app and enter the code: {code}",
+  "Давай играть в Folia вдвоём! Установи приложение и введи код: {code}": "Let's play Folia together! Install the app and enter the code: {code}",
   "Текст приглашения скопирован": "Invitation copied",
   "Новый код готов": "New code is ready",
   "Сохранено": "Saved",
@@ -319,10 +318,10 @@ export const EN = {
   "Не получилось включить: {x}": "Could not turn on: {x}",
   "Отправить тестовое уведомление": "Send a test notification",
   "Последняя отправка сервера": "The server's last send",
-  "Придёт на этот телефон. Если не пришло, отключите для «Нора» экономию заряда: Настройки → Приложения → Нора → Батарея.": "It arrives on this phone. If it does not, turn off battery saving for Nora: Settings → Apps → Nora → Battery.",
+  "Придёт на этот телефон. Если не пришло, отключите для «Folia» экономию заряда: Настройки → Приложения → Folia → Батарея.": "It arrives on this phone. If it does not, turn off battery saving for Folia: Settings → Apps → Folia → Battery.",
   "Проверить снова": "Check again",
   "Разрешение ещё не запрошено. Нажмите кнопку, и телефон спросит.": "Permission has not been asked yet. Tap the button and the phone will ask.",
-  "Разрешение отклонено. Откройте «Настройки» телефона → «Приложения» → «Нора» → «Уведомления», включите их и вернитесь сюда.": "Permission was declined. Open the phone's Settings → Apps → Nora → Notifications, turn them on and come back here.",
+  "Разрешение отклонено. Откройте «Настройки» телефона → «Приложения» → «Folia» → «Уведомления», включите их и вернитесь сюда.": "Permission was declined. Open the phone's Settings → Apps → Folia → Notifications, turn them on and come back here.",
   "Тест отправлен. Подождите несколько секунд.": "Test sent. Wait a few seconds.",
   "Тогда тёплые слова и реакции партнёра будут приходить сразу, даже если приложение закрыто.": "Then your partner's warm words and reactions arrive at once, even when the app is closed.",
   "Токен получен, но не сохранён: {x}": "The token was received but not saved: {x}",

diff --git a/functions/handlers.js b/functions/handlers.js
@@ -81,7 +81,7 @@ export async function onSignalCreated(deps, { pid, id, data }) {
   let taskTitle = "";
   const parsed = data.kind === "reaction" && data.ref ? parseLogId(data.ref) : null;
   if (parsed) { const t = await db.doc(`pairs/${pid}/tasks/${parsed.taskId}`).get(); taskTitle = t.exists ? t.data().title : ""; }
-  await pushTo(deps, pid, res.partner, res.name || "Nora", lang => pushText(data.kind, data.key, lang, taskTitle));
+  await pushTo(deps, pid, res.partner, res.name || "Folia", lang => pushText(data.kind, data.key, lang, taskTitle));
   return "sent";
 }
 
@@ -166,7 +166,7 @@ export async function onOrderCreated(deps, { pid, id, data }) {
   });
   if (res.reason) return res.reason;
   if (res.done) return "bought";
-  await pushTo(deps, pid, res.partner, res.name || "Nora", lang => shopText(res.kind, lang, orderName(res.named, res.ref, res.title, lang), res.cost));
+  await pushTo(deps, pid, res.partner, res.name || "Folia", lang => shopText(res.kind, lang, orderName(res.named, res.ref, res.title, lang), res.cost));
   return res.kind === "personal" ? "bought" : "proposed";
 }
 
@@ -187,7 +187,7 @@ export async function onOrderUpdated(deps, { pid, id, before, after }) {
     return { buyer: o.uid, approver: o.approvedBy, title: o.title, named: o.kind === "reward" ? "" : o.kind, ref: o.ref, names: p.names || {} };
   });
   if (res.reason) return res.reason;
-  await pushTo(deps, pid, res.buyer, res.names[res.approver] || "Nora", lang => shopText("approved", lang, orderName(res.named, res.ref, res.title, lang)));
+  await pushTo(deps, pid, res.buyer, res.names[res.approver] || "Folia", lang => shopText("approved", lang, orderName(res.named, res.ref, res.title, lang)));
   return "bought";
 }
 

diff --git a/src/push.js b/src/push.js
@@ -31,7 +31,7 @@ export function createPush({ isNative, loadPlugin, setTimer = setTimeout, clearT
       await P.addListener("registration", t => { clearTimer(timer); set("ready"); if (onToken) onToken(t.value); });
       await P.addListener("registrationError", e => { clearTimer(timer); set("error", text(e)); });
       await P.addListener("pushNotificationReceived", n => { if (onMessage) onMessage({ title: n.title || "", body: n.body || "" }); });
-      try { await P.createChannel({ id: "default", name: "Nora", importance: 4, visibility: 1 }); } catch (e) {}
+      try { await P.createChannel({ id: "default", name: "Folia", importance: 4, visibility: 1 }); } catch (e) {}
       set("registering");
       // if Google never answers (no Play services, no network), say so instead of waiting for ever
       timer = setTimer(() => set("error", "no answer from Google within " + TOKEN_WAIT_MS / 1000 + " s"), TOKEN_WAIT_MS);

diff --git a/src/main.js b/src/main.js
@@ -151,7 +151,7 @@ const actions = {
     try { await navigator.clipboard.writeText(S.pair.inviteCode); toast(t("Код скопирован")); } catch (e) { toast(S.pair.inviteCode); }
   },
   "share-code": async () => {
-    const text = t("Давай играть в Нору вдвоём! Установи приложение и введи код: {code}", { code: S.pair.inviteCode });
+    const text = t("Давай играть в Folia вдвоём! Установи приложение и введи код: {code}", { code: S.pair.inviteCode });
     try { if (navigator.share) await navigator.share({ text }); else { await navigator.clipboard.writeText(text); toast(t("Текст приглашения скопирован")); } } catch (e) {}
   },
   "new-invite": () => run(() => store.newInvite(), "Новый код готов"),

diff --git a/functions/signals.js b/functions/signals.js
@@ -51,7 +51,7 @@ export const shopText = (kind, lang, title, cost) => SHOP[kind][lang](title.leng
 
 // The test notification sent from Settings, to see that the whole chain works
 export const TEST_PUSH = {
-  ru: { title: "Нора", body: "Проверка уведомлений: всё работает! 🦊" },
-  en: { title: "Nora", body: "Notification check: it works! 🦊" },
-  el: { title: "Νόρα", body: "Έλεγχος ειδοποιήσεων: λειτουργεί! 🦊" }
+  ru: { title: "Folia", body: "Проверка уведомлений: всё работает! 🦊" },
+  en: { title: "Folia", body: "Notification check: it works! 🦊" },
+  el: { title: "Folia", body: "Έλεγχος ειδοποιήσεων: λειτουργεί! 🦊" }
 };

diff --git a/index.html b/index.html
@@ -5,7 +5,7 @@
   <meta name="viewport" content="width=device-width, initial-scale=1, viewport-fit=cover">
   <meta name="theme-color" content="#FBF7F2" media="(prefers-color-scheme: light)">
   <meta name="theme-color" content="#1B1714" media="(prefers-color-scheme: dark)">
-  <title>Нора</title>
+  <title>Folia</title>
   <link rel="icon" type="image/svg+xml" href="./icon.svg">
   <link rel="icon" type="image/png" sizes="32x32" href="./favicon-32.png">
   <link rel="apple-touch-icon" href="./apple-touch-icon.png">

diff --git a/functions/index.js b/functions/index.js
@@ -1,4 +1,4 @@
-// Server side of Nora: awards stars, delivers warm signals with push, cleans up a pair both partners have left.
+// Server side of Folia: awards stars, delivers warm signals with push, cleans up a pair both partners have left.
 import { initializeApp } from "firebase-admin/app";
 import { getFirestore } from "firebase-admin/firestore";
 import { getMessaging } from "firebase-admin/messaging";

diff --git a/src/logo.js b/src/logo.js
@@ -1,4 +1,4 @@
-// The logo of Nora: a little fox peeking out of its burrow (a mound) with a star above. One drawing in a 512 x 512 box,
+// The logo of Folia: a little fox peeking out of its burrow (a mound) with a star above. One drawing in a 512 x 512 box,
 // used by the app (inline SVG) and by tools/make-icons.mjs, which turns it into every icon and splash file.
 
 export const COLORS = {
